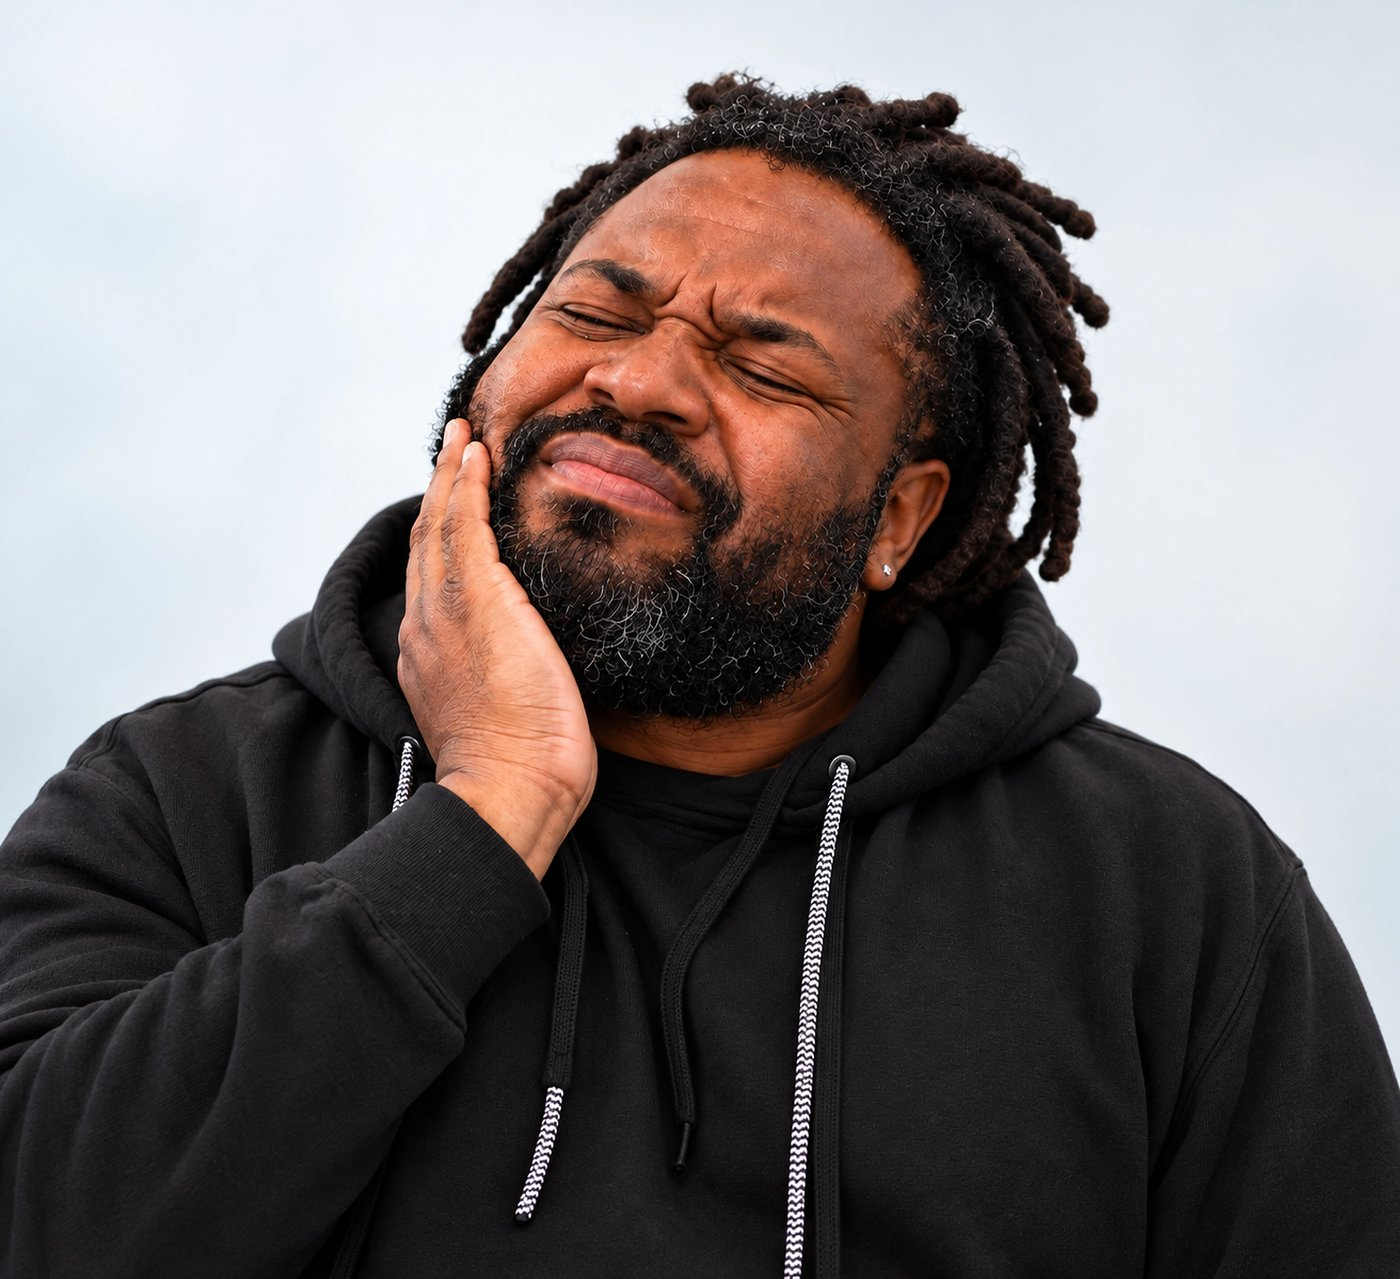
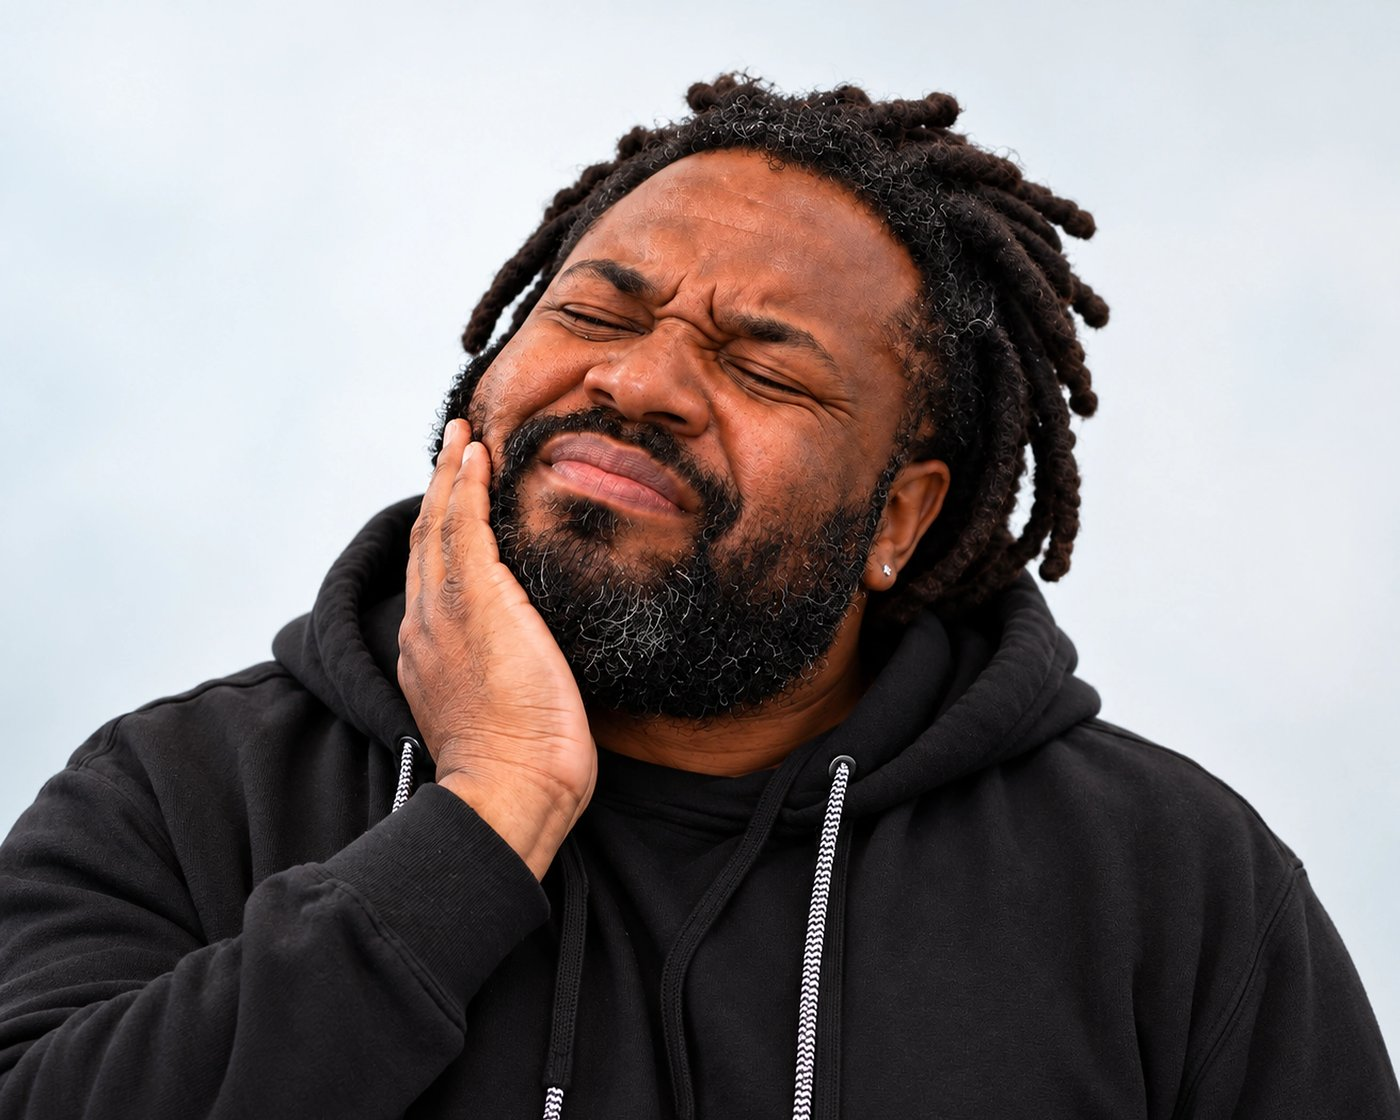
fix: keep the tooth pain headline off the face
The photo is cropped to the tab frame's 5:4 shape from the top, and
"Got tooth pain?" sits at the bottom over the hoodie.

diff --git a/src/components/sections/Problems.tsx b/src/components/sections/Problems.tsx
@@ -44,7 +44,7 @@ export async function Problems() {
   }
 
   // In these photos the faces fill the top, so the headline sits at the bottom (practice request, 21 October 2026).
-  const titlePlacements: Partial<Record<ServiceId, Problem['titlePlacement']>> = { 'cleanings-checkups': 'bottom', cosmetic: 'bottomNarrow' };
+  const titlePlacements: Partial<Record<ServiceId, Problem['titlePlacement']>> = { emergency: 'bottom', 'cleanings-checkups': 'bottom', cosmetic: 'bottomNarrow' };
 
   function problem(id: ServiceId, text: ProblemText, photo: Problem['photo'], extraLinks: readonly ExtraLink[] = []): Problem {
     const service = findService(id);
